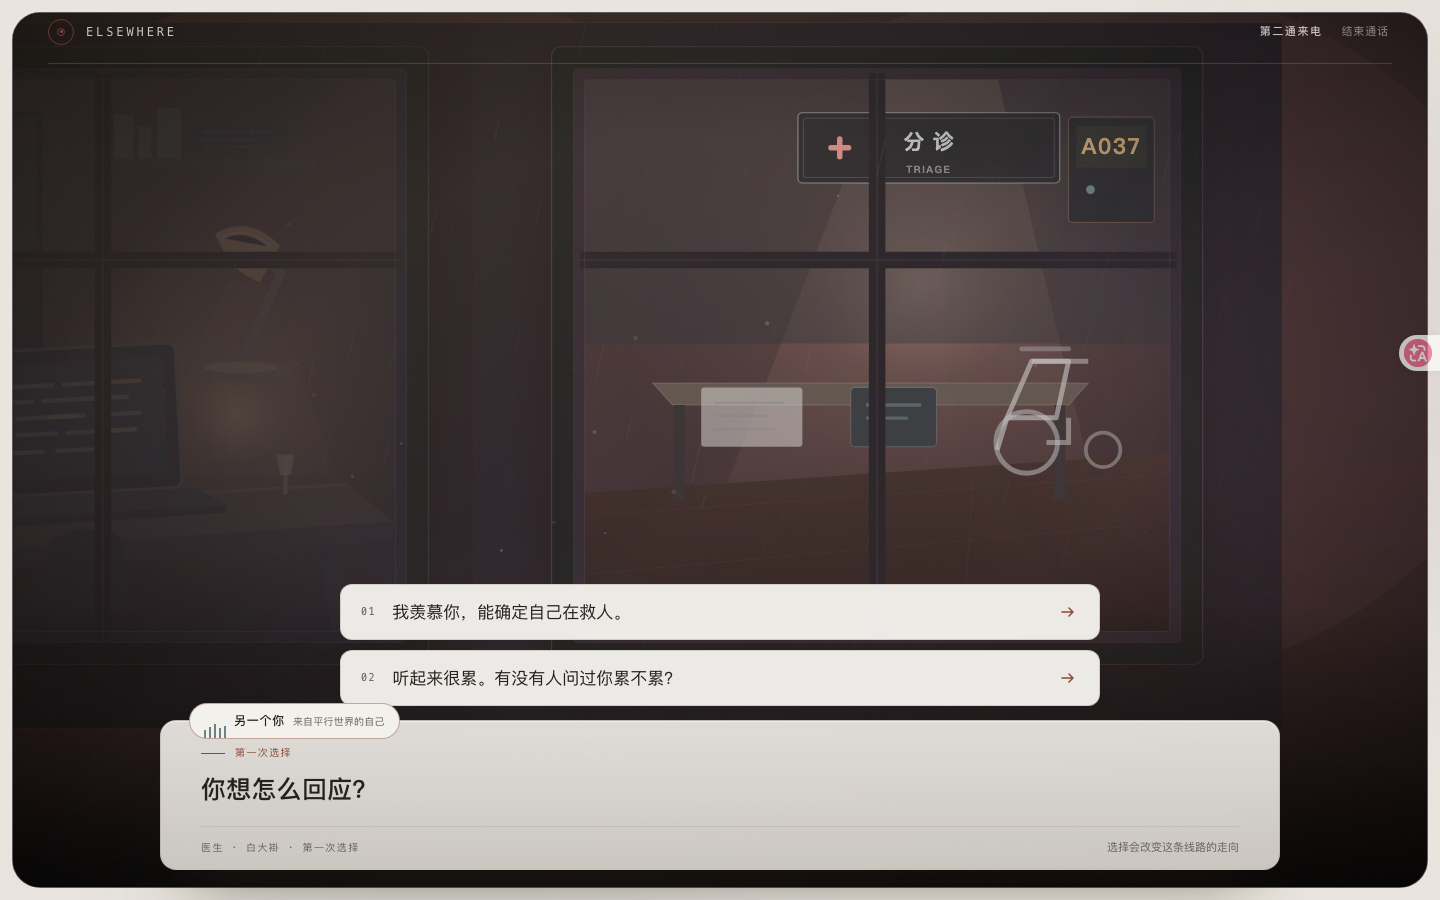
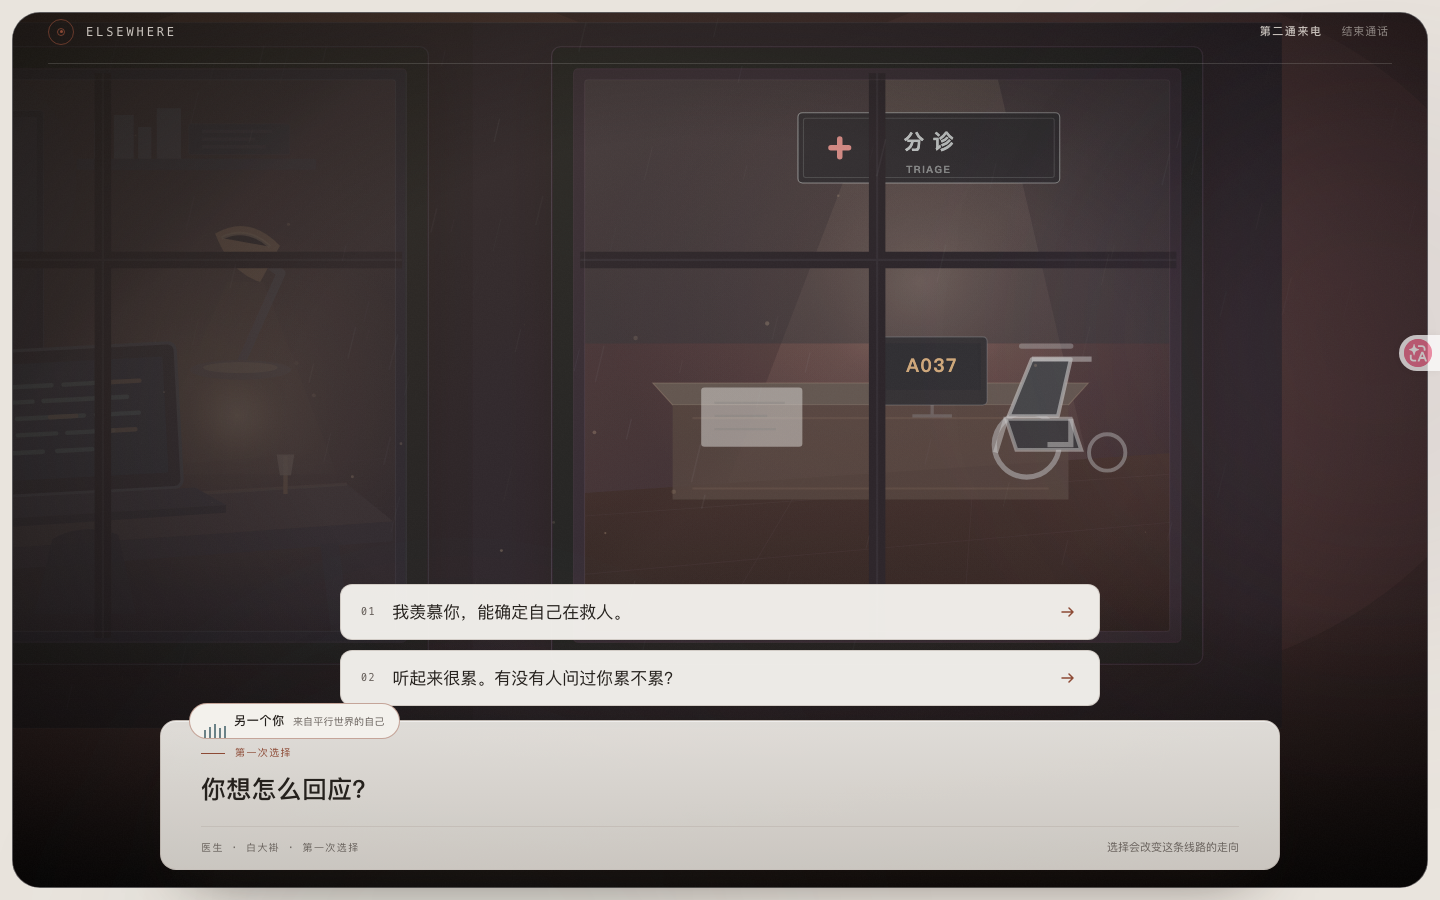
refine: make triage counter read as a nurse station
Solid counter, queue display moved onto the desk, and a filled
wheelchair silhouette keep the scene legible with fewer elements.

Changed region(s): [[0.5938, 0.3733, 0.7812, 0.5289], [0.75, 0.1556, 0.7812, 0.1867]]

diff --git a/tasks/reports/TASK-003.md b/tasks/reports/TASK-003.md
@@ -1205,3 +1205,16 @@ git restore --source=6e05d32 -- src/App.tsx src/index.css src/components/SceneWh
 校验：构建通过；扩展流程 17 项通过，`failures` / `consoleEvents` 均为 `[]`；40 张场景动效检查通过；20/20 剧情测试通过。新增 [医生起始画面](assets/TASK-003/expansion-career-start-1440.png)，并更新[分诊选择](assets/TASK-003/expansion-career-choice-1440.png)与[医生结局](assets/TASK-003/expansion-career-ending-1440.png)。
 
 仍限制：完整浏览器路径只走医生线；未使用实体手机、Safari/Firefox 或真实读屏；未经 Codex 复审，不据此自称 PASS；未合并 main、未部署。
+
+## 42. 分诊选择画面再调整
+
+日期：2026-11-20（Asia/Shanghai）。针对分诊选择画面做了更具体的护士站构图：
+
+- 分诊台从细桌改成落到地面的实心前台，增加台面厚度与正面分缝。
+- 叫号 `A037` 从独立墙屏移到台面显示器上，减少一块悬浮屏幕，也更像真实分诊台。
+- 轮椅补上深色座椅与靠背，轮廓比纯线稿更实、更容易在手机端辨认。
+- 画面仍只保留分诊牌、叫号台、记录板和轮椅四类信息，没有增加新的装饰元素。
+
+校验：构建通过；扩展流程 17 项通过，`failures` / `consoleEvents` 均为 `[]`；40 张场景动效检查通过。更新[分诊选择画面](assets/TASK-003/expansion-career-choice-1440.png)。
+
+未合并 main、未部署；未经 Codex 复审，不据此自称 PASS。
